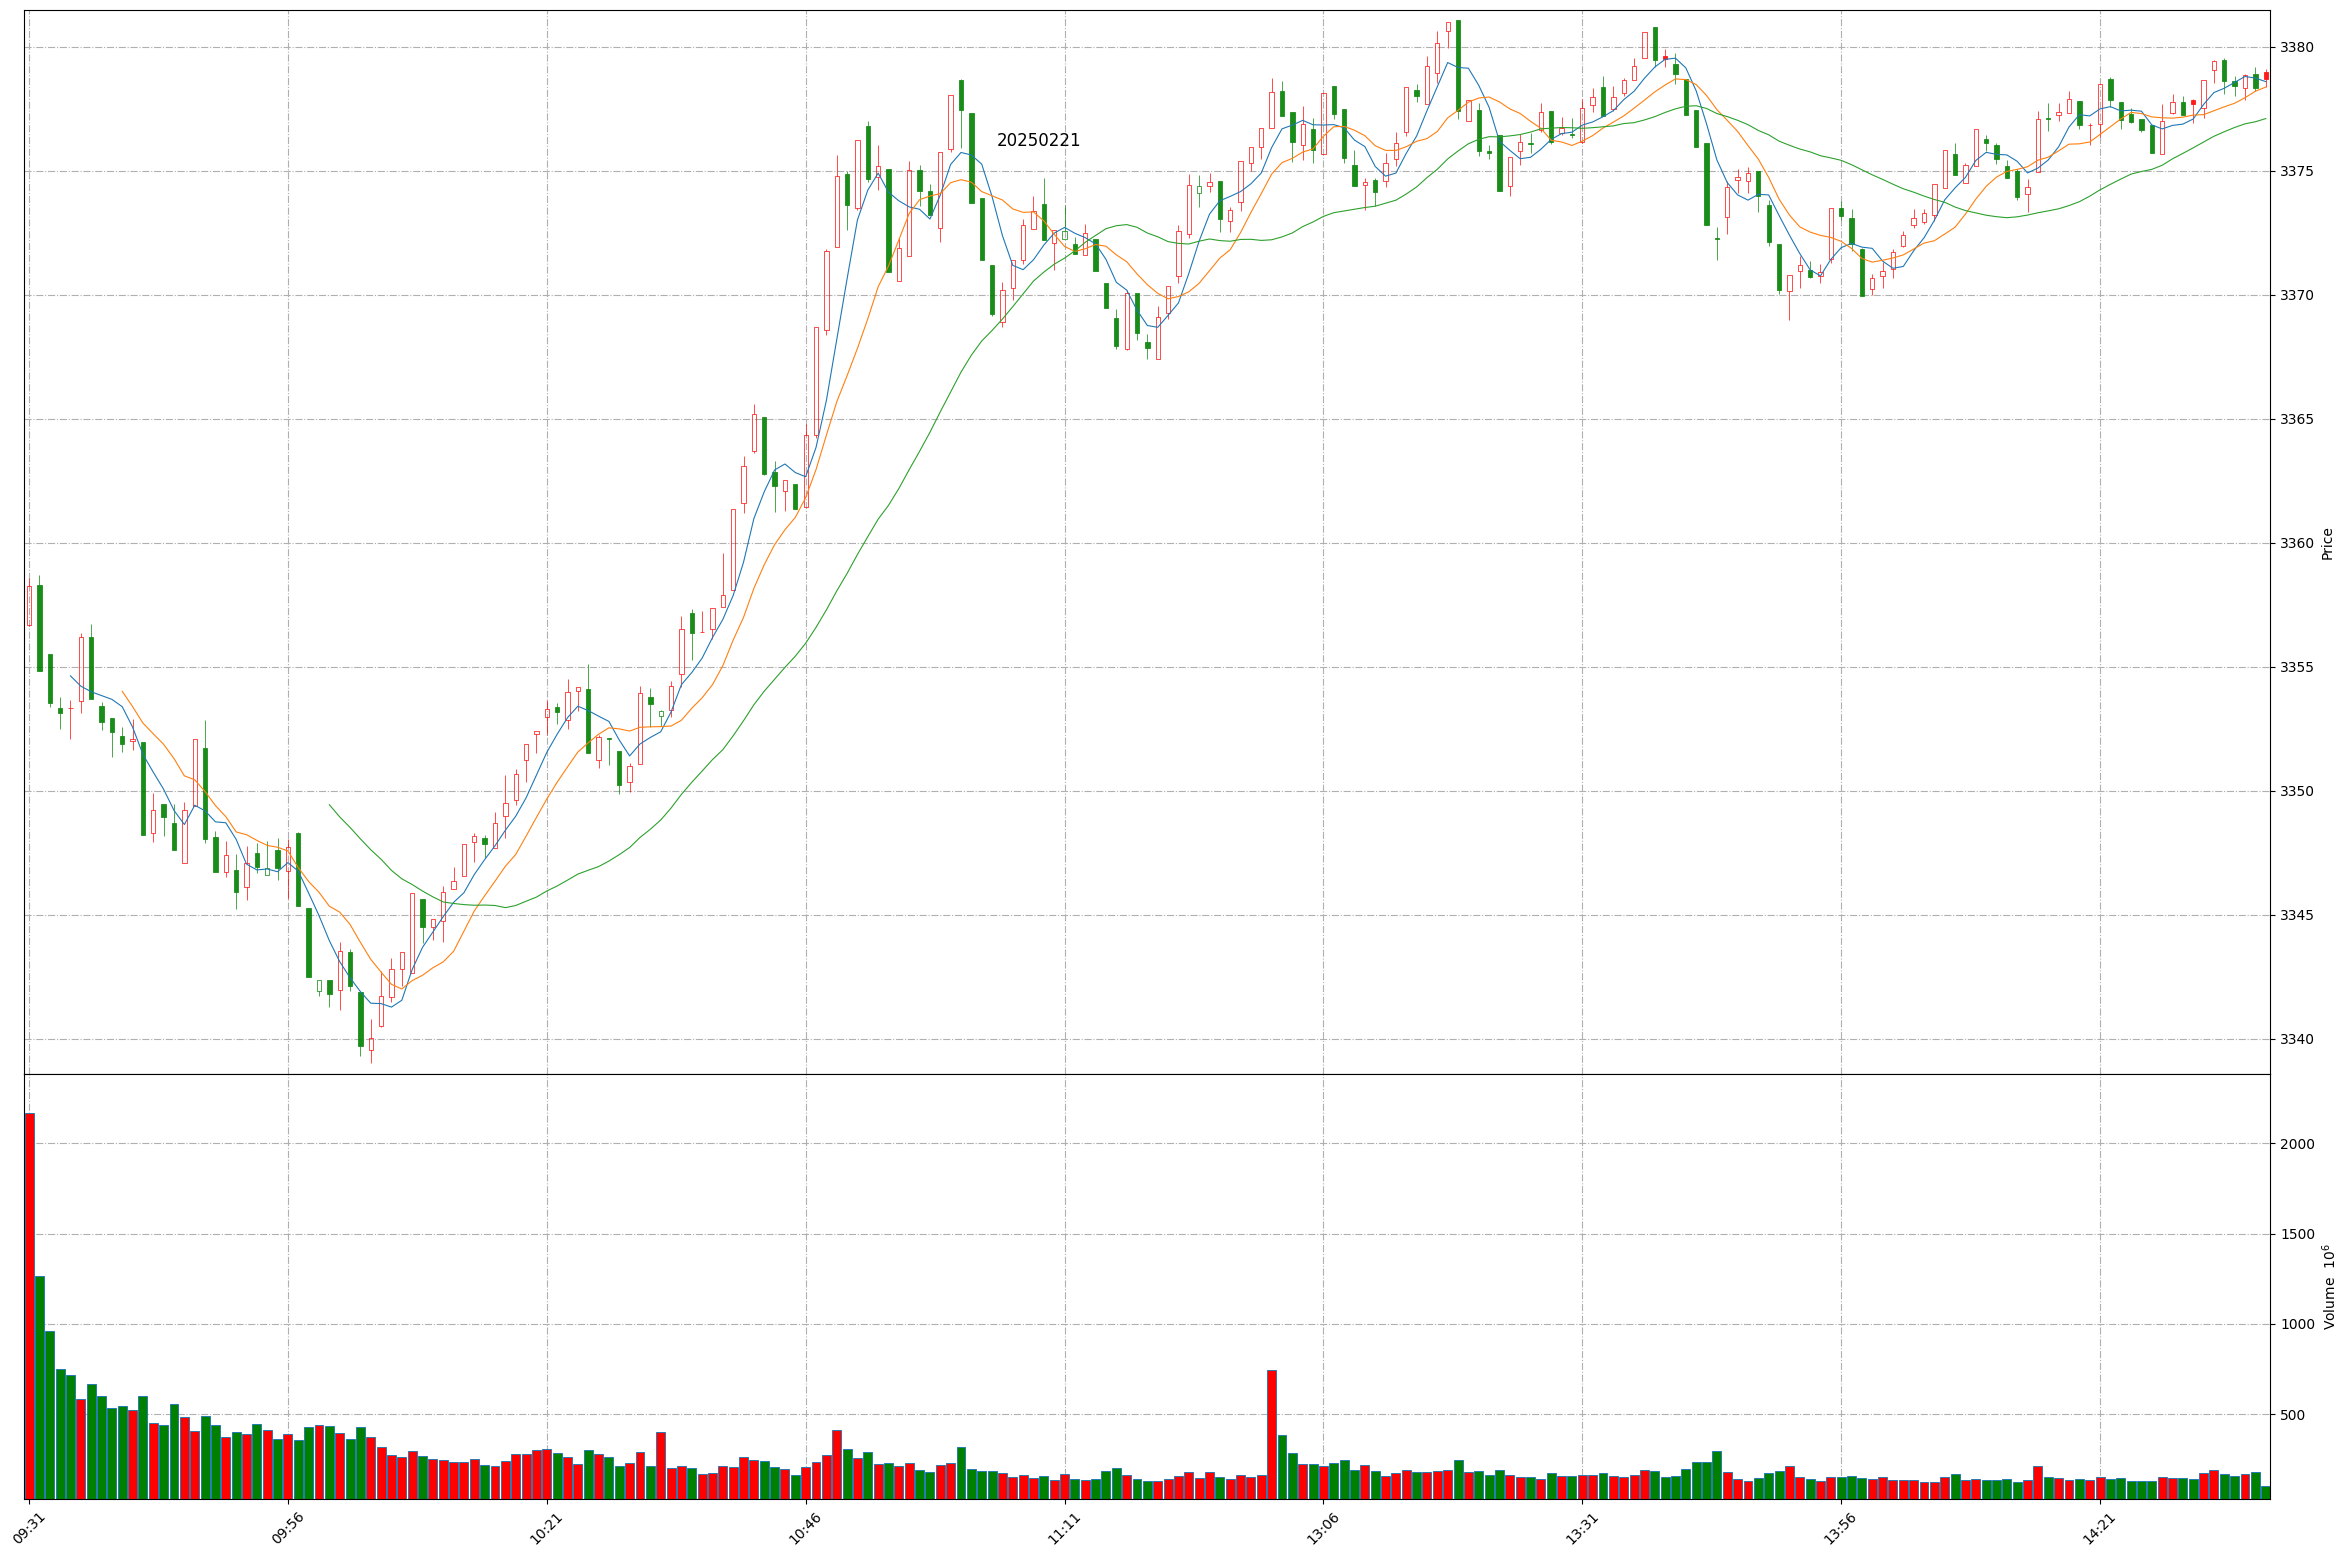
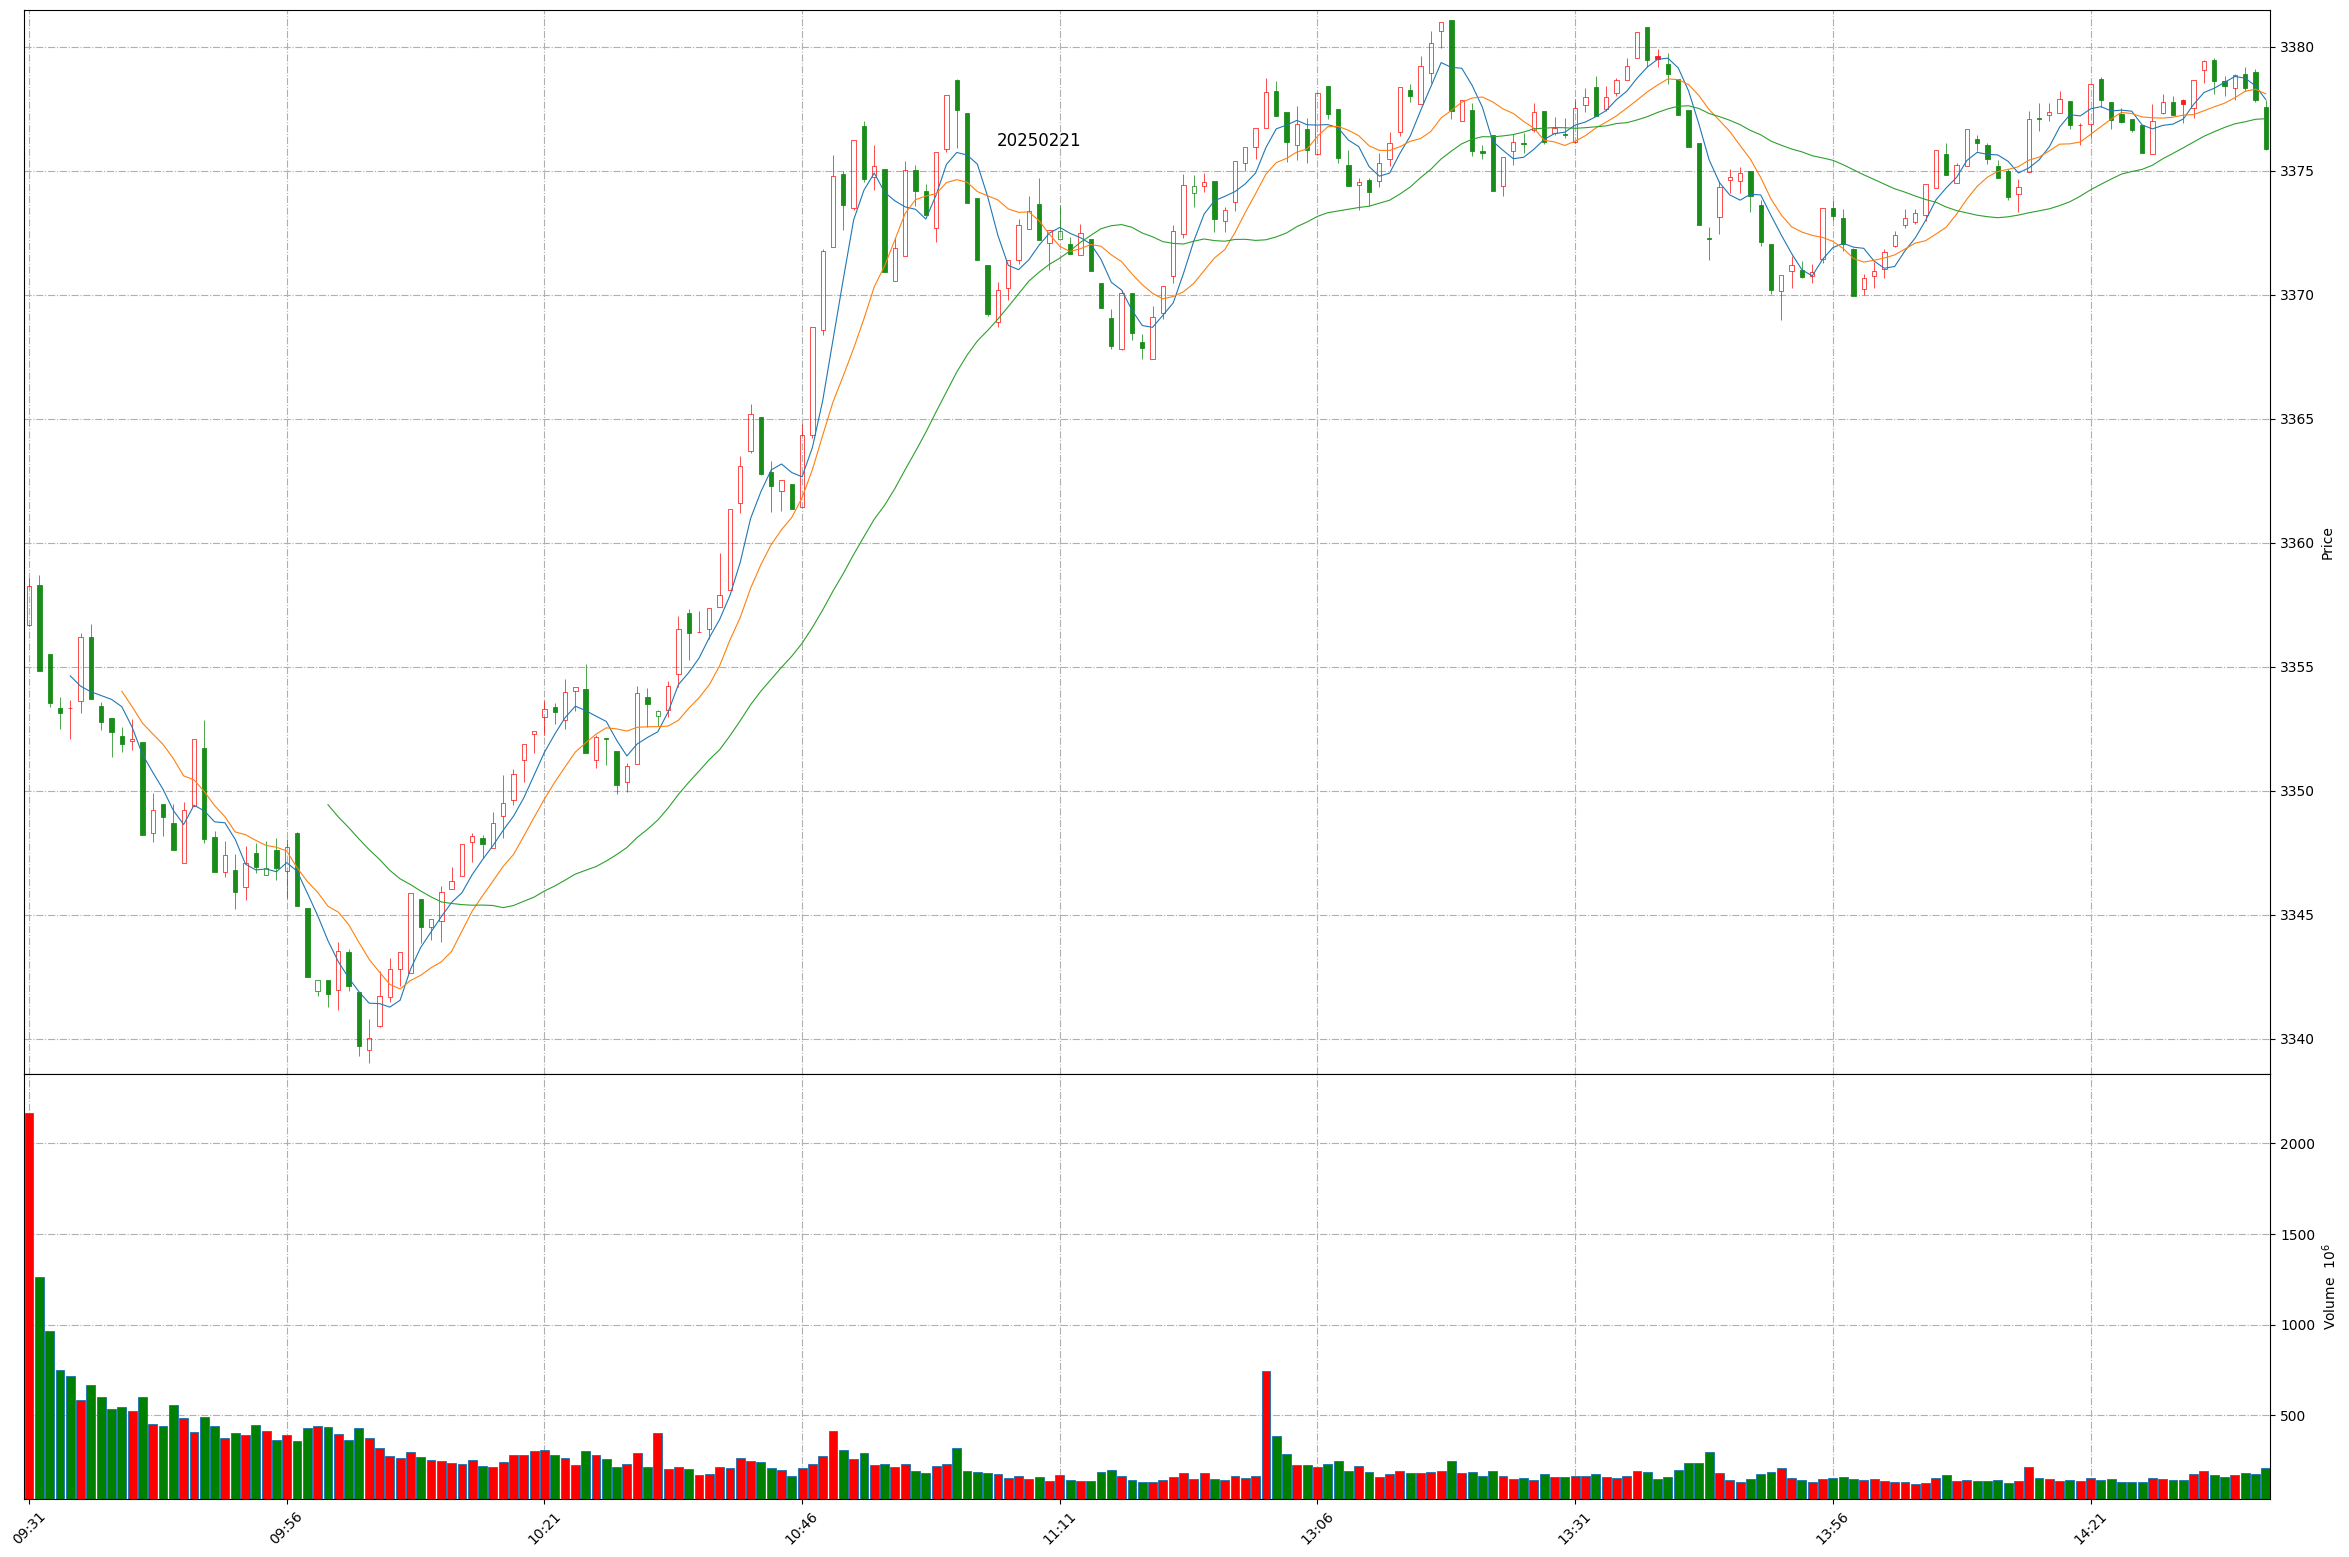
Github action update at 2025-02-21 14:38:15.

diff --git a/README.md b/README.md
@@ -1,11 +1,11 @@
 
 # Daily-A-share-market-quotes 每日 A 股指数（5min 更新）- 20250221
 
-### 上证指数 20250221 14:36
+### 上证指数 20250221 14:38
 ![](./fig/2025/2/20250221-sh000001.png)
 
-### 深证成指 20250221 14:36
+### 深证成指 20250221 14:38
 ![](./fig/2025/2/20250221-sz399001.png)
 
-### 北证50 20250221 14:36
+### 北证50 20250221 14:38
 ![](./fig/2025/2/20250221-bj899050.png)
